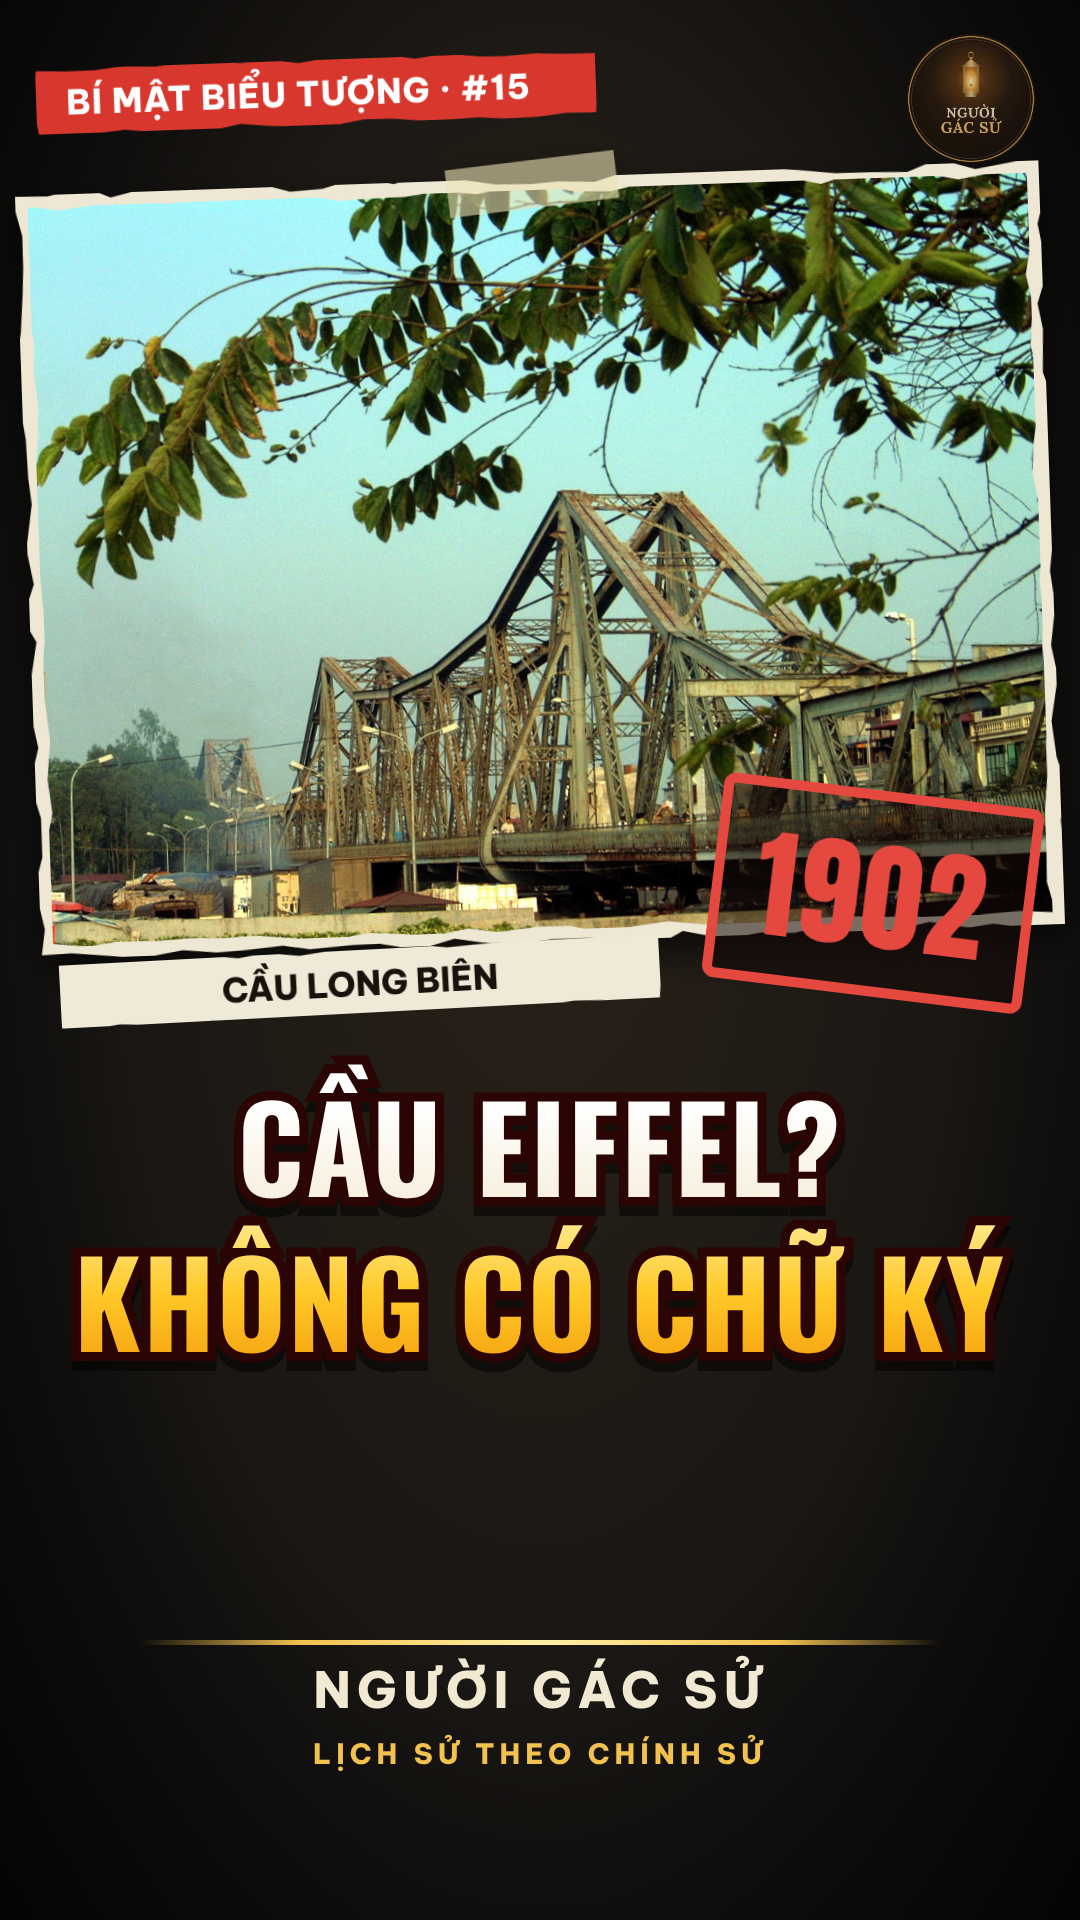
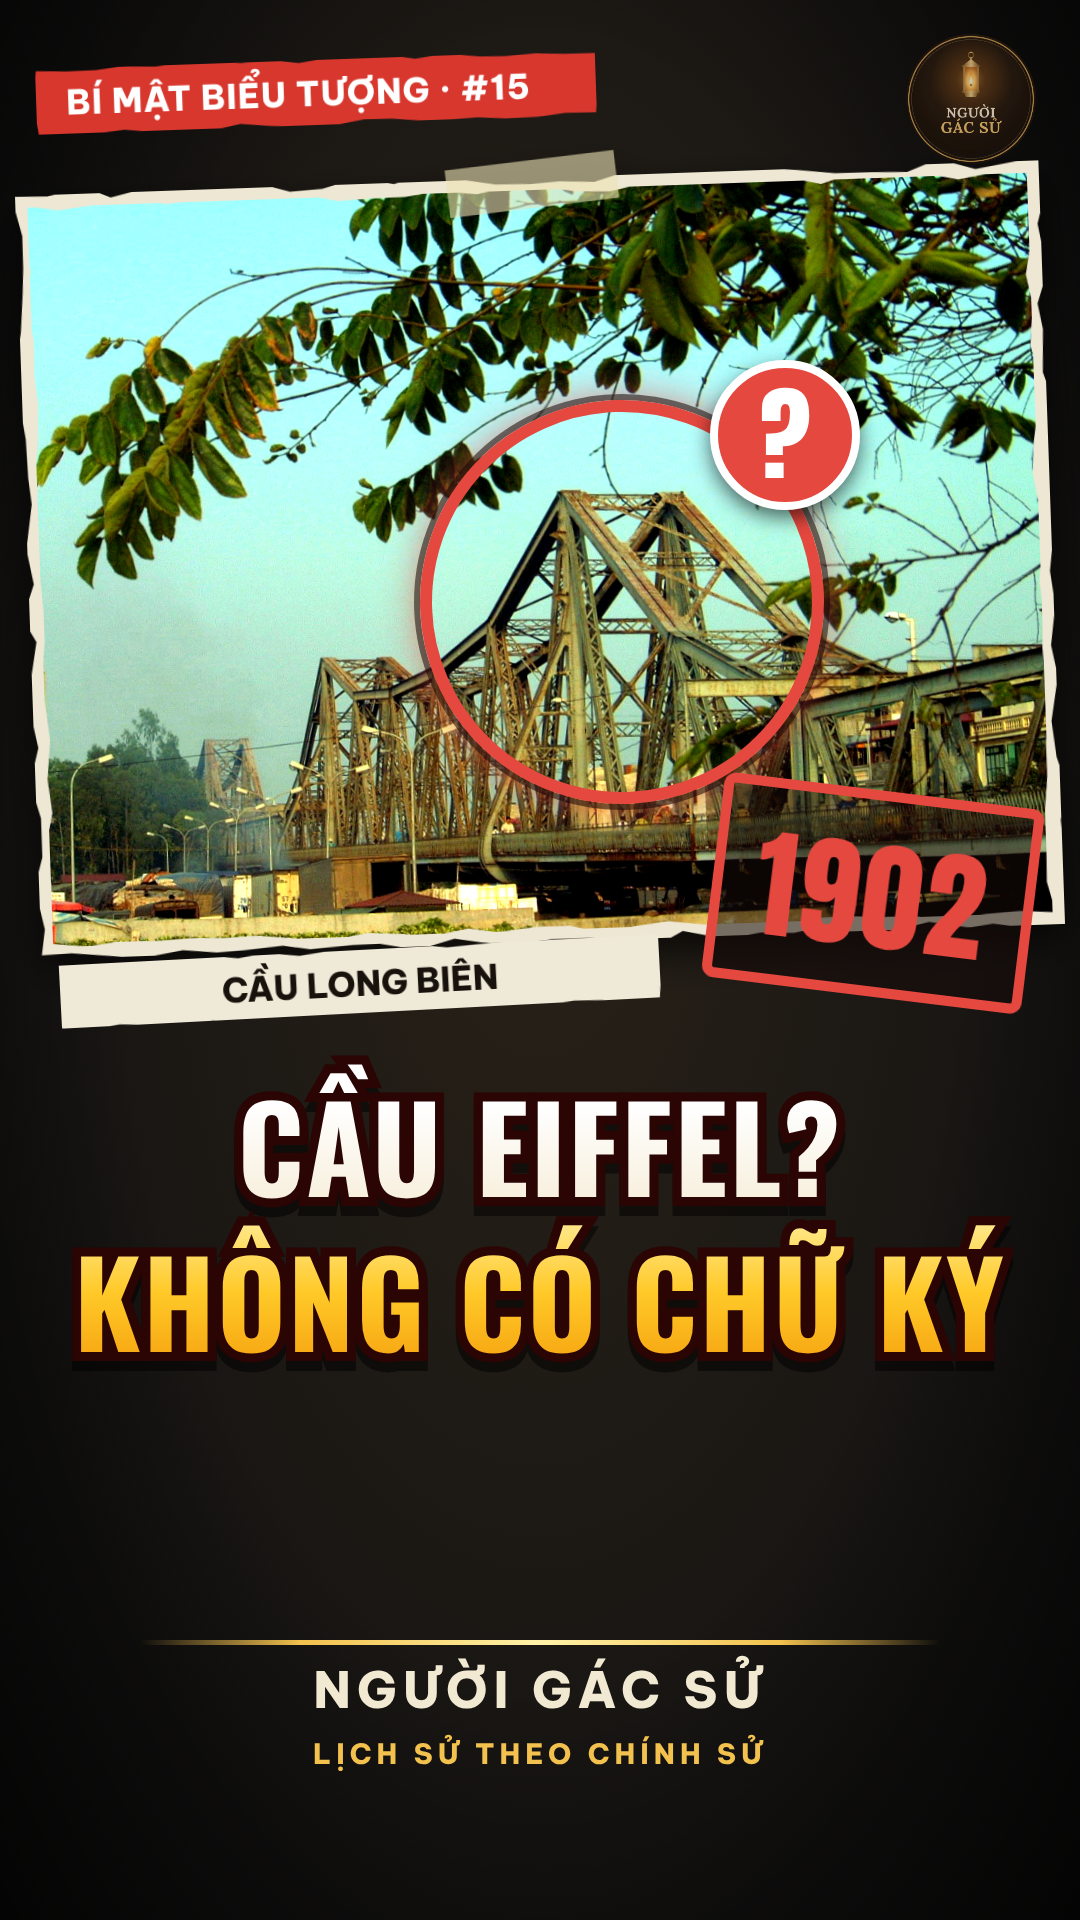
Quy tắc bìa đúng cốt truyện và cuốn hút; bìa #15 có vòng khoanh và dấu ? [skip ci]
Claude-Session: https://claude.ai/code/session_01H1Wbxj9sAcUYRQ6Wju6xqR

diff --git a/assets/bia/XK/tao_bia.py b/assets/bia/XK/tao_bia.py
@@ -12,7 +12,7 @@ CFG = {
  '4': dict(img='xk4/hd9.jpg', pos='50% 50%', num='#12', stamp='1407', tag='HỒ NGUYÊN TRỪNG', l1='SÚNG THẦN CƠ', l2='CỦA CON HỒ QUÝ LY'),
  '5': dict(img='xk5/ha6.jpg', pos='50% 50%', num='#13', stamp='1719', tag='CHÙA CẦU HỘI AN', l1='CẦU CÓ MÁI CHE', l2='CÓ CẢ CHÙA TRÊN CẦU'),
  '6': dict(img='xk6/rs5.jpg', pos='50% 50%', num='#14', stamp='1799', tag='PHIẾN ĐÁ ROSETTA', l1='TẢNG ĐÁ LÍNH PHÁP', l2='ĐỌC ĐƯỢC CHỮ AI CẬP'),
- '7': dict(img='xk7/lb12.jpg', pos='62% 60%', num='#15', stamp='1902', tag='CẦU LONG BIÊN', l1='CẦU EIFFEL?', l2='KHÔNG CÓ CHỮ KÝ'),
+ '7': dict(img='xk7/lb12.jpg', pos='62% 60%', num='#15', stamp='1902', tag='CẦU LONG BIÊN', l1='CẦU EIFFEL?', l2='KHÔNG CÓ CHỮ KÝ', chu_the='cầu Long Biên', hook=dict(cx=610, cy=590, r=190, q='?')),
 }[K]
 def fs(t): return round(118*min(1, 16/len(t)))
 out = sys.argv[2] if len(sys.argv) > 2 else str(Path(__file__).with_name(f'bia_xk{K}.png'))
@@ -25,6 +25,8 @@ def jag(w, h, seed, amp=7, step=34):
     side(0,0,w,0); side(w,0,w,h); side(w,h,0,h); side(0,h,0,0)
     return 'polygon('+','.join(f'{x:.1f}px {y:.1f}px' for x,y in P)+')'
 CW, CH = 1000, 740
+H = CFG.get('hook')
+HOOK = (f"<div class=hook style='left:{H['cx']-H['r']}px;top:{H['cy']-H['r']}px;width:{2*H['r']}px;height:{2*H['r']}px'></div><div class=q style='left:{H['cx']+H['r']-90}px;top:{H['cy']-H['r']-40}px'>{H['q']}</div>" if H else '')
 html = f'''<!doctype html><meta charset=utf-8><style>
 @font-face{{font-family:A;src:url(file://{F}/Anton-Regular.ttf)}}
 @font-face{{font-family:O;font-weight:200 700;src:url(file://{F}/Oswald.ttf)}}
@@ -34,7 +36,7 @@ html = f'''<!doctype html><meta charset=utf-8><style>
 .vg{{position:absolute;inset:0;background:radial-gradient(ellipse at 50% 45%,rgba(0,0,0,0) 55%,rgba(0,0,0,.8) 100%)}}
 .card{{position:absolute;left:40px;top:190px;width:{CW}px;height:{CH}px;transform:rotate(-2deg);filter:drop-shadow(0 18px 20px rgba(0,0,0,.7))}}
 .card .bd{{position:absolute;inset:-12px;background:#eee7d3;clip-path:{jag(CW+24,CH+24,3)}}}
-.card .im{{position:absolute;inset:0;clip-path:{jag(CW,CH,9,5)};background:url(file://{R}/assets/{CFG['img']}) {CFG['pos']}/cover no-repeat}}
+.card .im{{position:absolute;inset:0;clip-path:{jag(CW,CH,9,5)};background:url(file://{R}/assets/{CFG['img']}) {CFG['pos']}/cover no-repeat;filter:contrast(1.14) saturate(1.22) brightness(1.03)}}
 .tape{{position:absolute;left:420px;top:-30px;width:170px;height:48px;background:rgba(236,226,180,.6);transform:rotate(-5deg)}}
 .pill{{position:absolute;left:36px;top:60px;font-family:B;font-size:34px;color:#fff;letter-spacing:1px;padding:12px 30px 10px;background:#d8372d;clip-path:{jag(560,64,5,3,30)};width:560px;box-sizing:border-box;transform:rotate(-2deg)}}
 .stamp{{position:absolute;right:46px;top:790px;font-family:A;font-size:120px;color:#e5483f;letter-spacing:4px;padding:6px 34px 0;border:10px solid #e5483f;border-radius:12px;background:rgba(20,10,8,.55);transform:rotate(7deg)}}
@@ -44,10 +46,13 @@ html = f'''<!doctype html><meta charset=utf-8><style>
 .w{{background:linear-gradient(180deg,#fff 30%,#f3e6c8 100%);-webkit-background-clip:text;color:transparent}}
 .y{{background:linear-gradient(180deg,#fff2a8 5%,#ffc928 45%,#f08a00 100%);-webkit-background-clip:text;color:transparent}}
 .tag{{position:absolute;left:60px;top:950px;font-family:B;font-size:34px;color:#17120c;background:#efe9d8;padding:12px 24px 8px;clip-path:{jag(600,64,7,3,30)};width:600px;box-sizing:border-box;transform:rotate(-3deg);text-align:center}}
+.hook{{position:absolute;border:12px solid #e5483f;border-radius:50%;box-shadow:0 0 0 6px rgba(20,10,8,.55),0 0 40px rgba(229,72,63,.8);transform:rotate(-2deg)}}
+.q{{position:absolute;font-family:A;font-size:104px;line-height:132px;color:#fff;background:#e5483f;width:150px;height:150px;border-radius:50%;text-align:center;padding-top:0;box-sizing:border-box;border:8px solid #fff;filter:drop-shadow(0 8px 10px rgba(0,0,0,.6))}}
 .rule{{position:absolute;left:140px;width:800px;height:5px;background:linear-gradient(90deg,transparent,#f2c14e 20%,#fff2a8 50%,#f2c14e 80%,transparent)}}
 </style><body>
 <div class=news></div><div class=vg></div>
 <div class=card><div class=bd></div><div class=im></div><div class=tape></div></div>
+{HOOK}
 <div class=pill>BÍ MẬT BIỂU TƯỢNG · {CFG['num']}</div>
 <div class=stamp>{CFG['stamp']}</div>
 <div class=tag>{CFG['tag']}</div>

diff --git a/CLAUDE.md b/CLAUDE.md
@@ -467,3 +467,12 @@ Nền mặc định chỉ có hai màu (nâu đen và giấy vàng) với họa 
 - **Một kiểu cảnh đặc trưng** dùng cho chủ đề (đếm số, trục thời gian, vật dụng vẽ phẳng của chính chủ đề), không dùng lại nguyên bộ cảnh của video trước.
 - Khung hình soi ở cỡ lớn phải cho thấy nền mới ở cả cảnh tối lẫn cảnh sáng; chữ vẫn đọc rõ trên nền mới. Giữ nguyên các quy tắc cũ (logo, nội dung chính trên y 1290, phụ đề).
 - Ghi dấu ấn đã chọn vào mô tả giao video (một dòng) để các video sau không lặp lại.
+
+## Ảnh bìa video: đúng cốt truyện và cuốn hút (chủ kênh chốt 10/11/2026, từ bìa #15 Cầu Long Biên bị làm chân dung Eiffel; áp dụng mọi bìa từ nay)
+Bổ sung cho mục "Ảnh bìa video", "Ảnh bìa dọc 1080×1920". Mỗi video chỉ MỘT bìa, không làm nhiều bản cho chủ kênh chọn.
+- **Hình phải đúng cốt truyện video đang nói.** Ảnh chính của bìa là chủ thể của video (cầu Long Biên thì ảnh cây cầu, trống đồng thì ảnh trống). KHÔNG đặt chân dung nhân vật làm ảnh bìa khi chủ thể là vật hoặc công trình, KHÔNG có ngoại lệ ("không thêm ngoại lệ", chủ kênh 10/11/2026). Tên người nhắc trên bìa đi vào chữ, không đi vào hình. Chân dung chỉ dùng khi video kể về chính người đó.
+- **Chọn ảnh:** trước khi làm bìa xem mọi ảnh ứng viên cạnh nhau. Chọn ảnh toàn cảnh, rõ hình dáng đặc trưng, sáng, không bị che quá một phần ba; người lạ nhìn 1 giây phải đoán được chủ đề. Tránh ảnh cận chi tiết (biển tên, đinh tán), ảnh mờ, ảnh có logo kho ảnh. Ảnh chi tiết chỉ dùng khi chính chi tiết đó là điểm gây tò mò.
+- **Bìa phải cuốn hút, gây tò mò, không chỉ minh họa.** Mỗi bìa có MỘT điểm gây tò mò nhìn thấy ngay trên hình: khoanh đỏ vào đúng chỗ của câu hỏi chính kèm dấu "?" (trường `hook=dict(cx, cy, r, q)` trong `assets/bia/XK/tao_bia.py`, tọa độ theo khung 1080×1920), hoặc mũi tên, dấu X đỏ, hình đối lập. Chữ dòng 1 nêu chủ thể, dòng 2 là câu hỏi hoặc điều lạ nhất của video (tối đa 4 chữ mỗi dòng, 2 dòng). Dòng chữ phải khớp điều video sẽ chứng minh; không giật tít sai sự thật. Ảnh được tăng nhẹ tương phản và màu (đã đặt sẵn trong `tao_bia.py`) để nổi hơn trên nền tối.
+- **Khai báo `chu_the`** (vật trong ảnh) trong mục cấu hình bìa; chỉ giao khi `chu_the` khớp tên video. Thẻ tên nhỏ trên ảnh (như "CẦU LONG BIÊN") phải đúng vật trong ảnh.
+- **Bố cục và logo giữ nguyên mẫu đã duyệt** (logo cây đèn, số tập, chữ trong y 70–1560, đáy chỉ thương hiệu). Vòng khoanh và dấu "?" không che chủ thể và không đè logo, thẻ năm, thẻ tên.
+- **Kiểm trước khi giao (bắt buộc):** mở bìa ở cỡ lớn, tự hỏi "chưa biết video, nhìn ảnh này đoán chuyện gì?"; đoán sai hoặc không đoán được thì đổi ảnh. So hình, chữ với tên video và câu 1 kịch bản; kiểm dấu tiếng Việt ở cỡ 270×480. Khi giao ghi một dòng: ảnh dùng (tác giả, giấy phép) và vì sao chọn.
